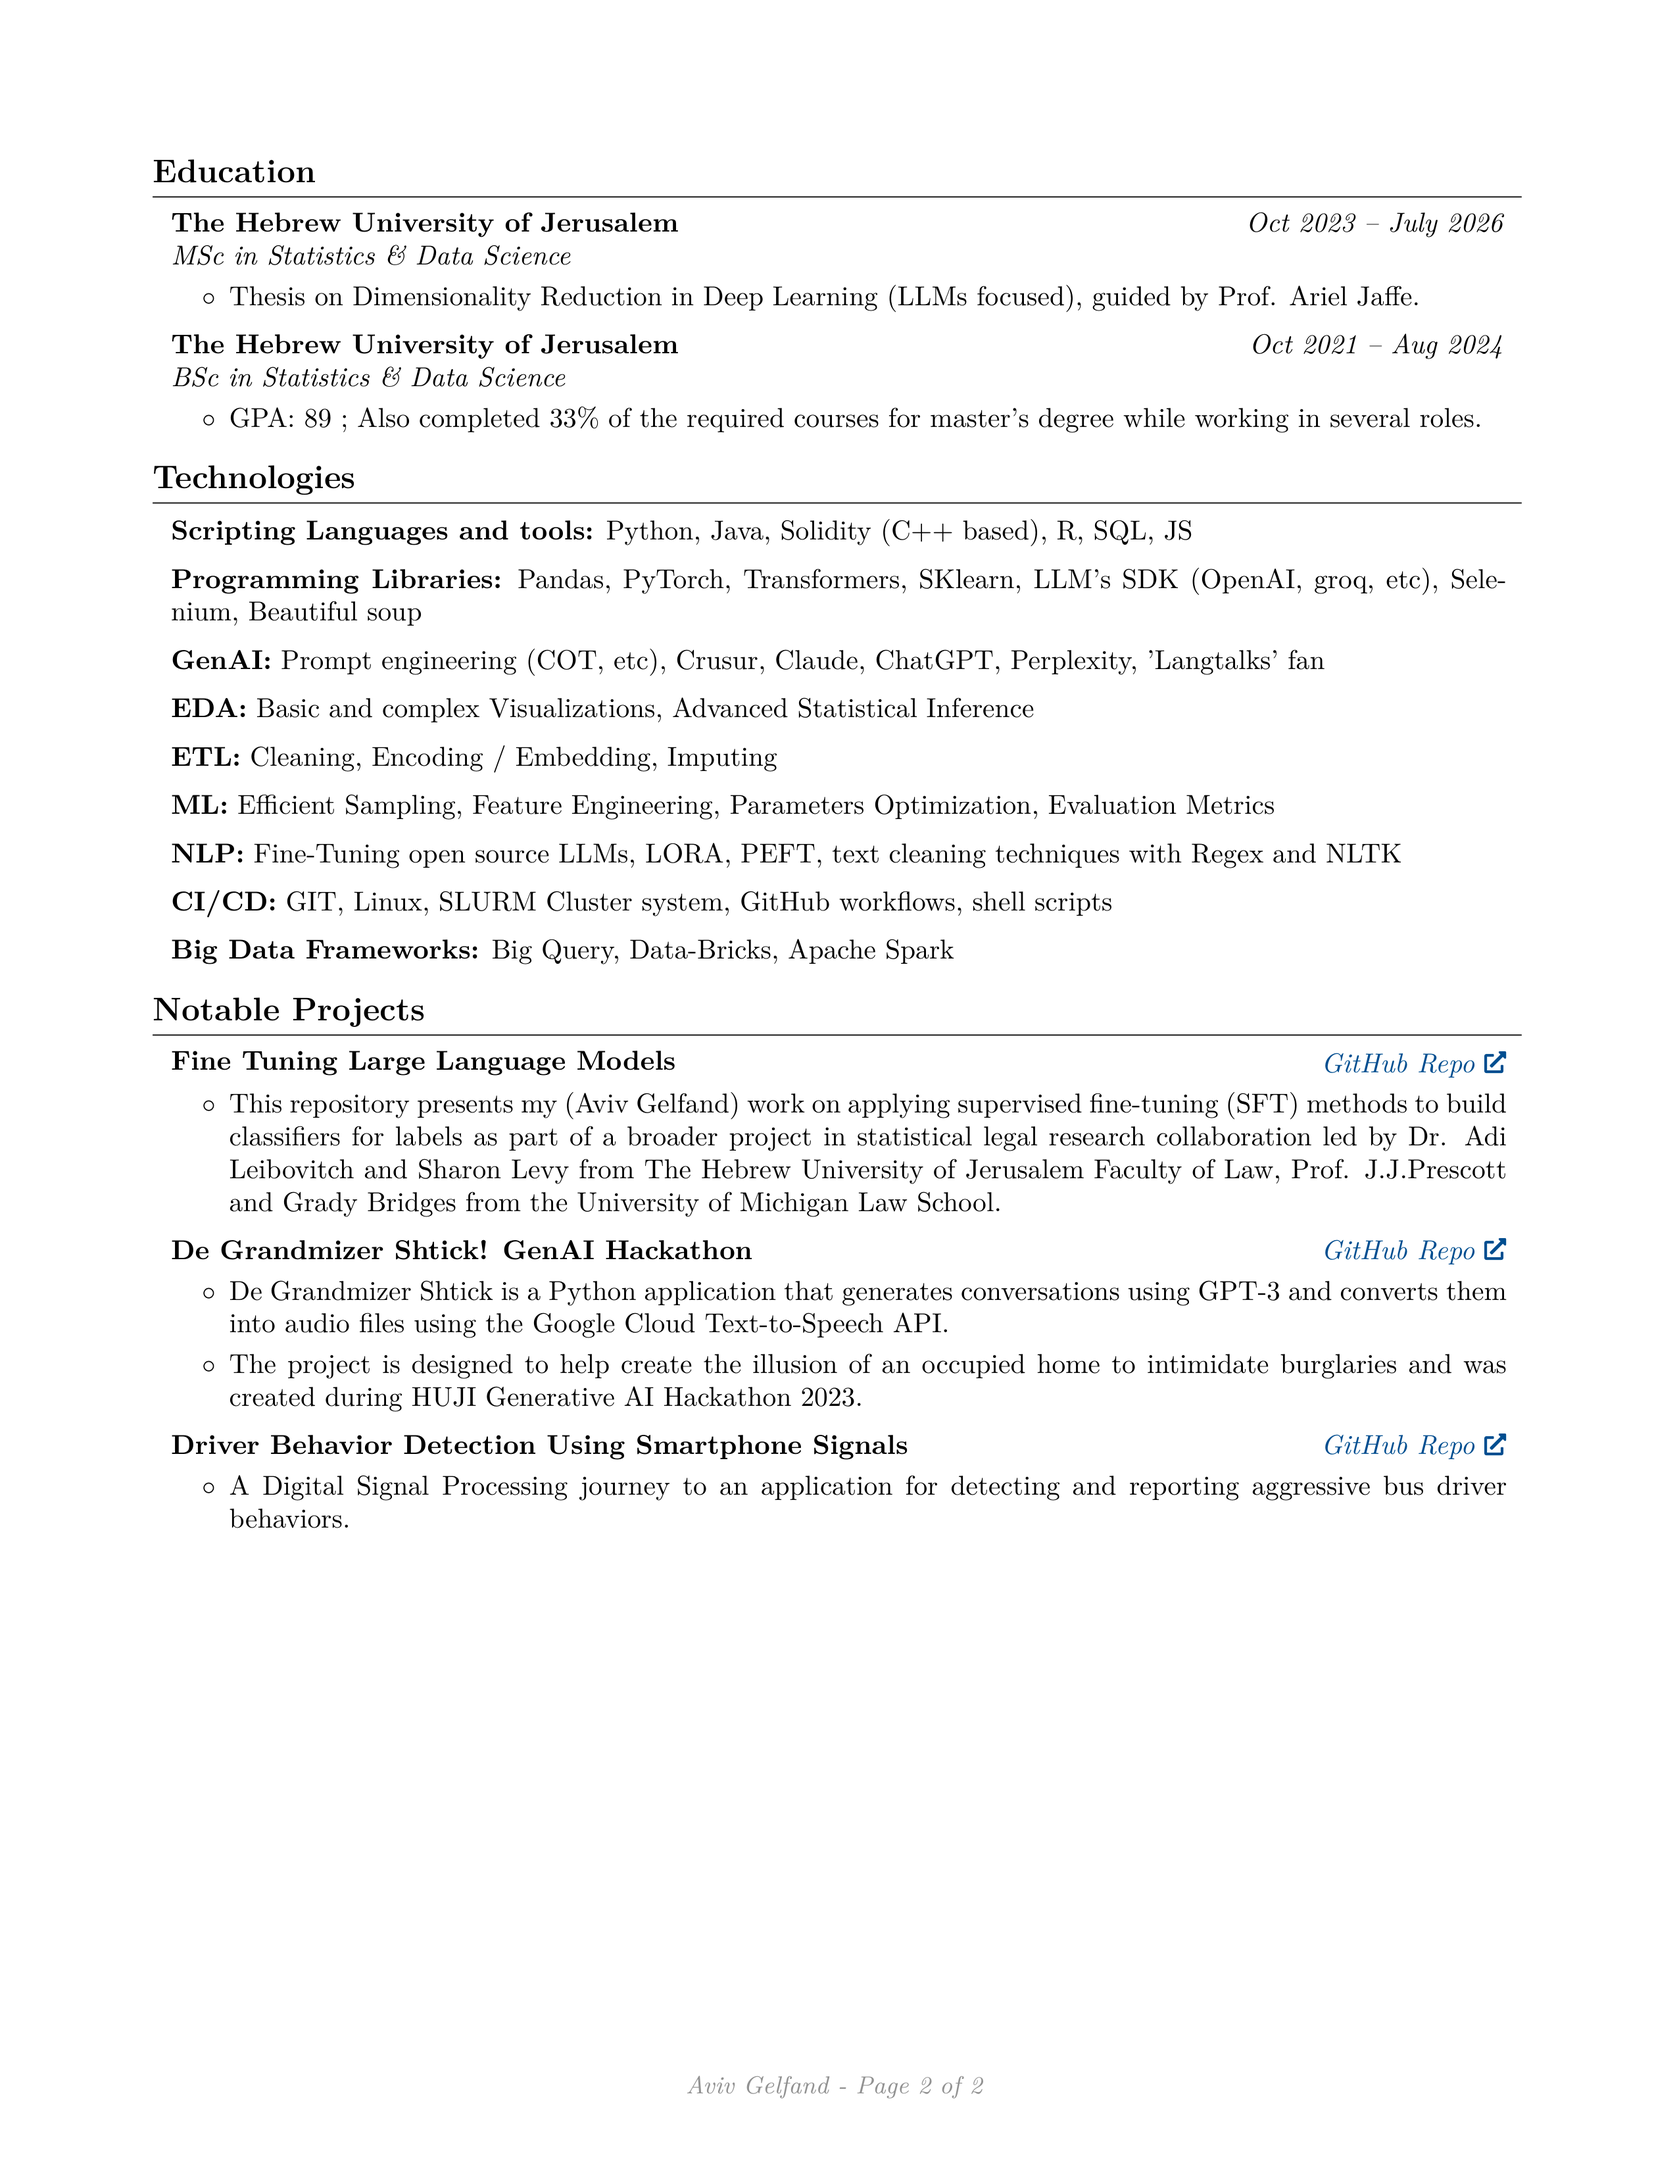
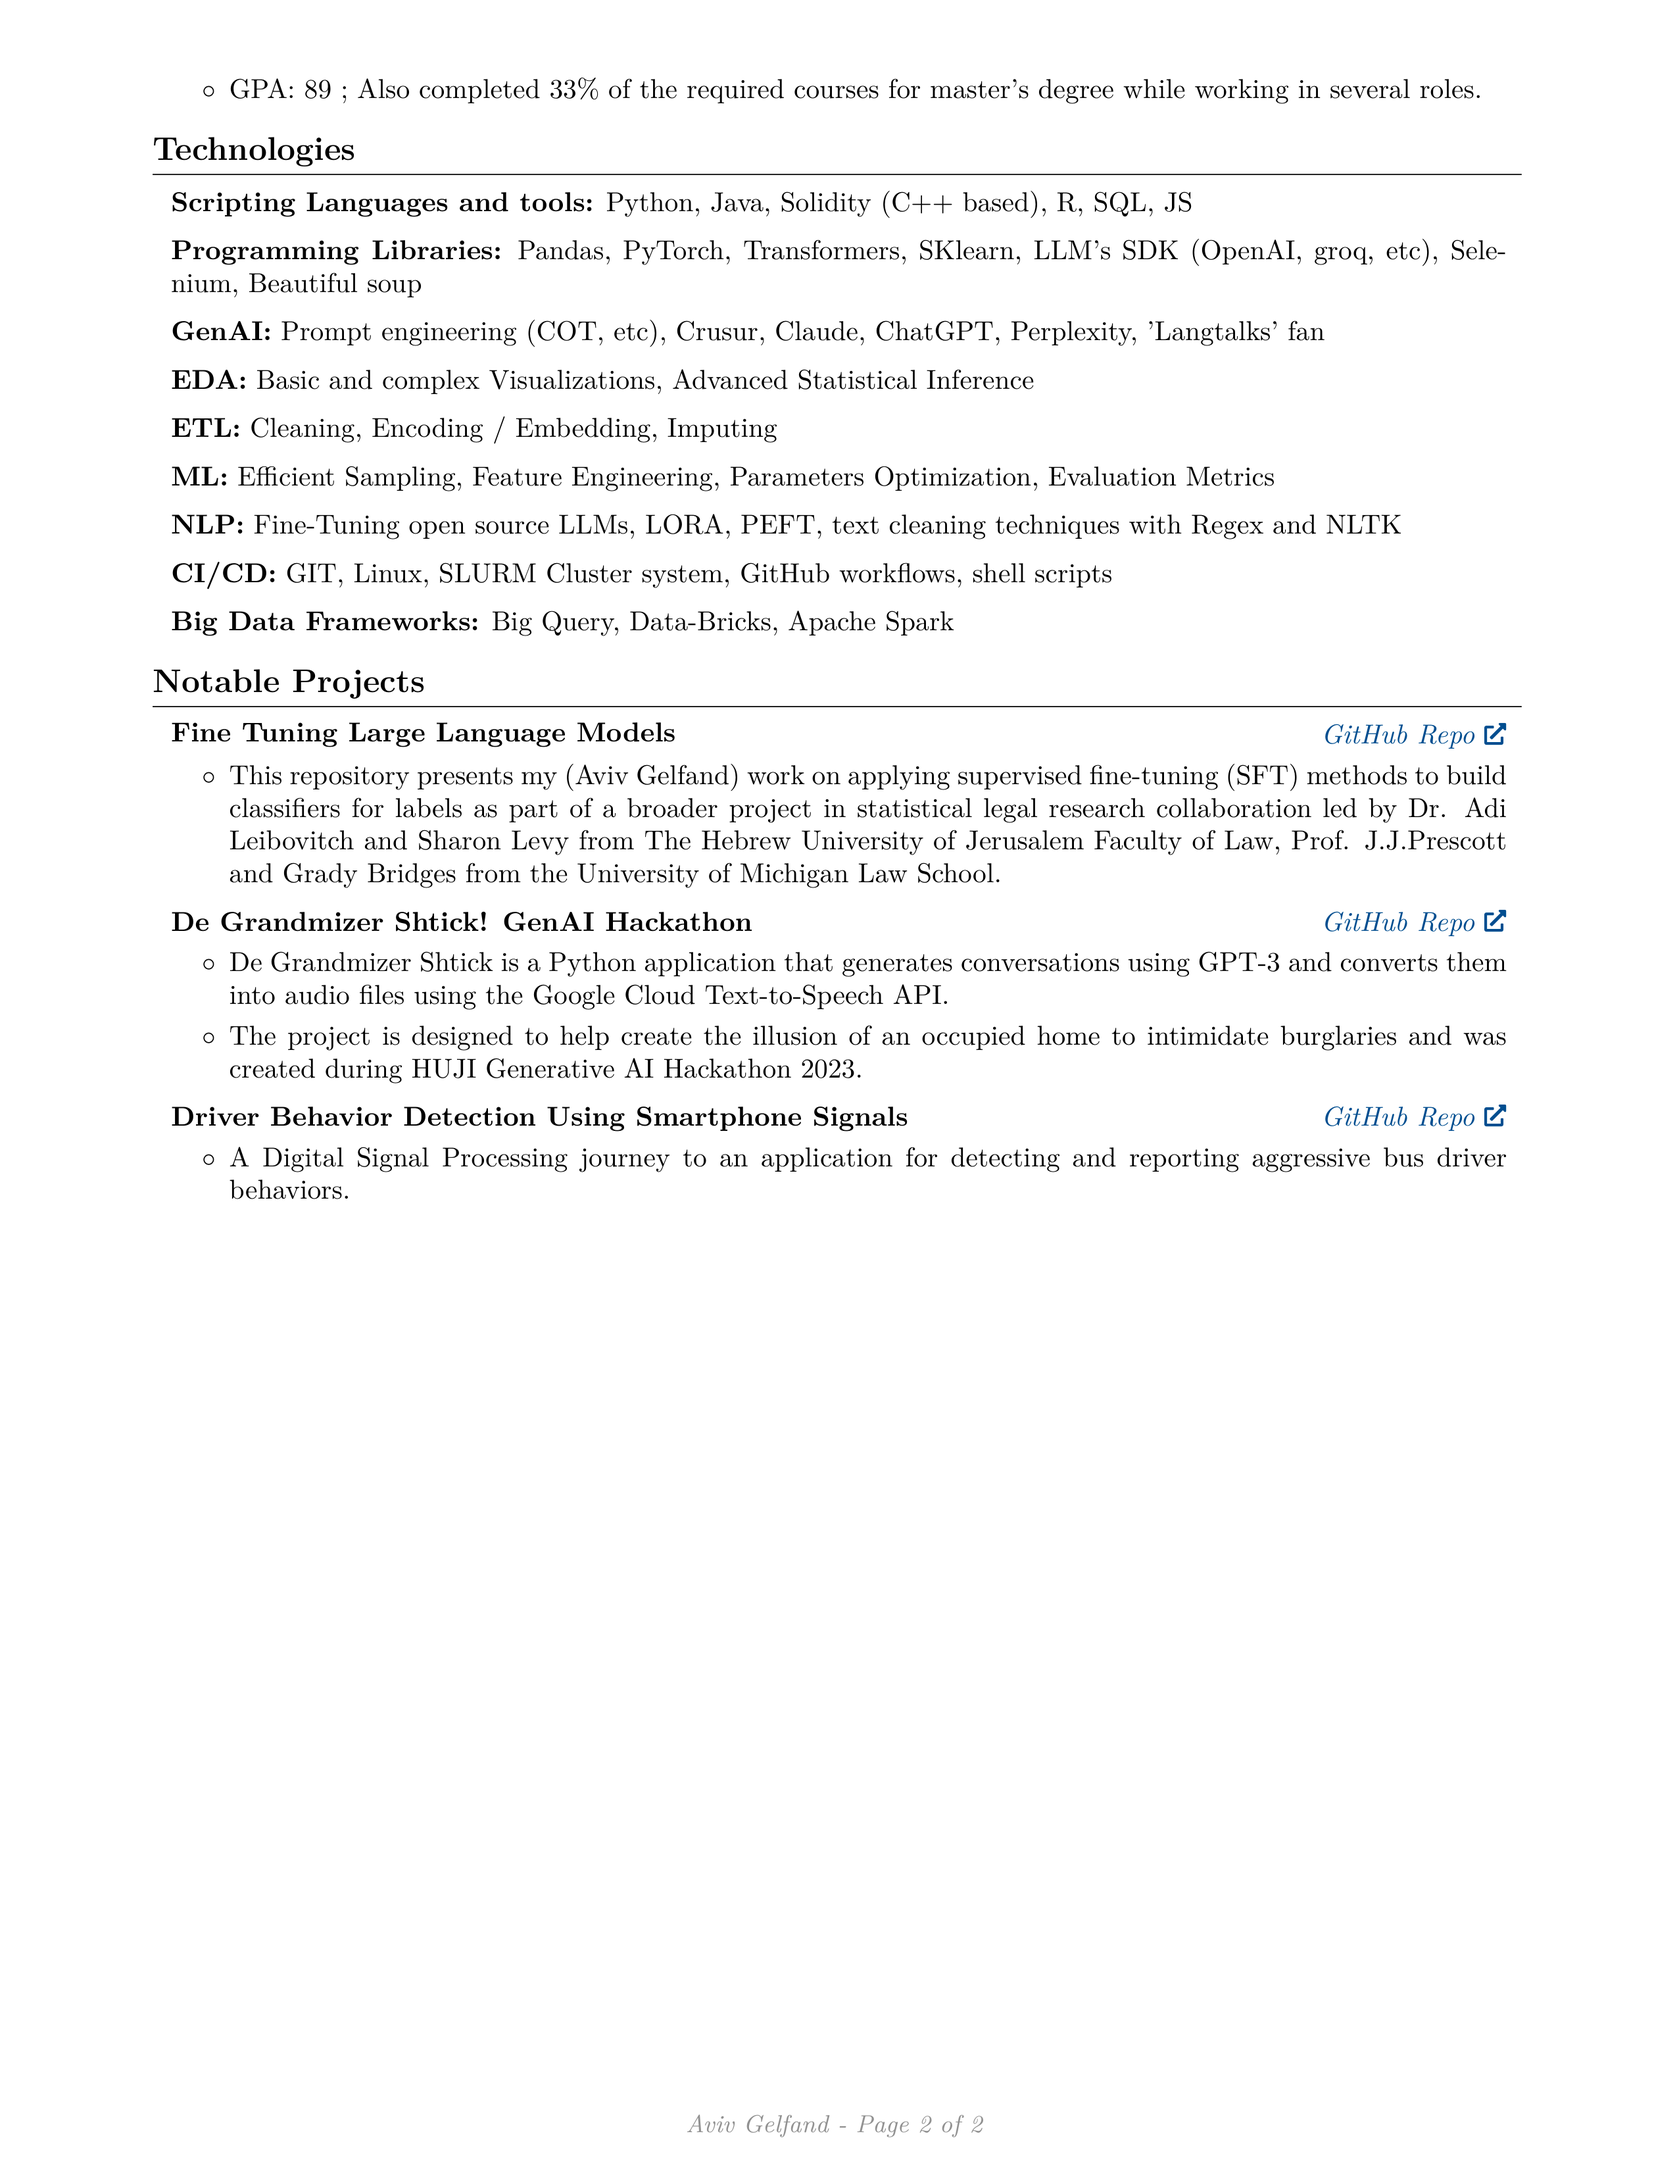
Render the latest CV

diff --git a/Aviv_Gelfand_CV.tex b/Aviv_Gelfand_CV.tex
@@ -3,11 +3,11 @@
 % Packages:
 \usepackage[
     ignoreheadfoot, % set margins without considering header and footer
-    top=2 cm, % seperation between body and page edge from the top
-    bottom=2 cm, % seperation between body and page edge from the bottom
+    top=1 cm, % seperation between body and page edge from the top
+    bottom=1 cm, % seperation between body and page edge from the bottom
     left=2 cm, % seperation between body and page edge from the left
     right=2 cm, % seperation between body and page edge from the right
-    footskip=1.0 cm, % seperation between body and footer
+    footskip=0.5 cm, % seperation between body and footer
     % showframe % for debugging 
 ]{geometry} % for adjusting page geometry
 \usepackage{titlesec} % for customizing section titles
@@ -131,7 +131,7 @@
   \AddToShipoutPictureFG*{% Add <stuff> to current page foreground
     \put(
         \LenToUnit{\paperwidth-2 cm-0.2 cm+0.05cm},
-        \LenToUnit{\paperheight-1.0 cm}
+        \LenToUnit{\paperheight-0.5 cm}
     ){\vtop{{\null}\makebox[0pt][c]{
         \small\color{gray}\textit{Last updated in September 2024}\hspace{\widthof{Last updated in September 2024}}
     }}}%
